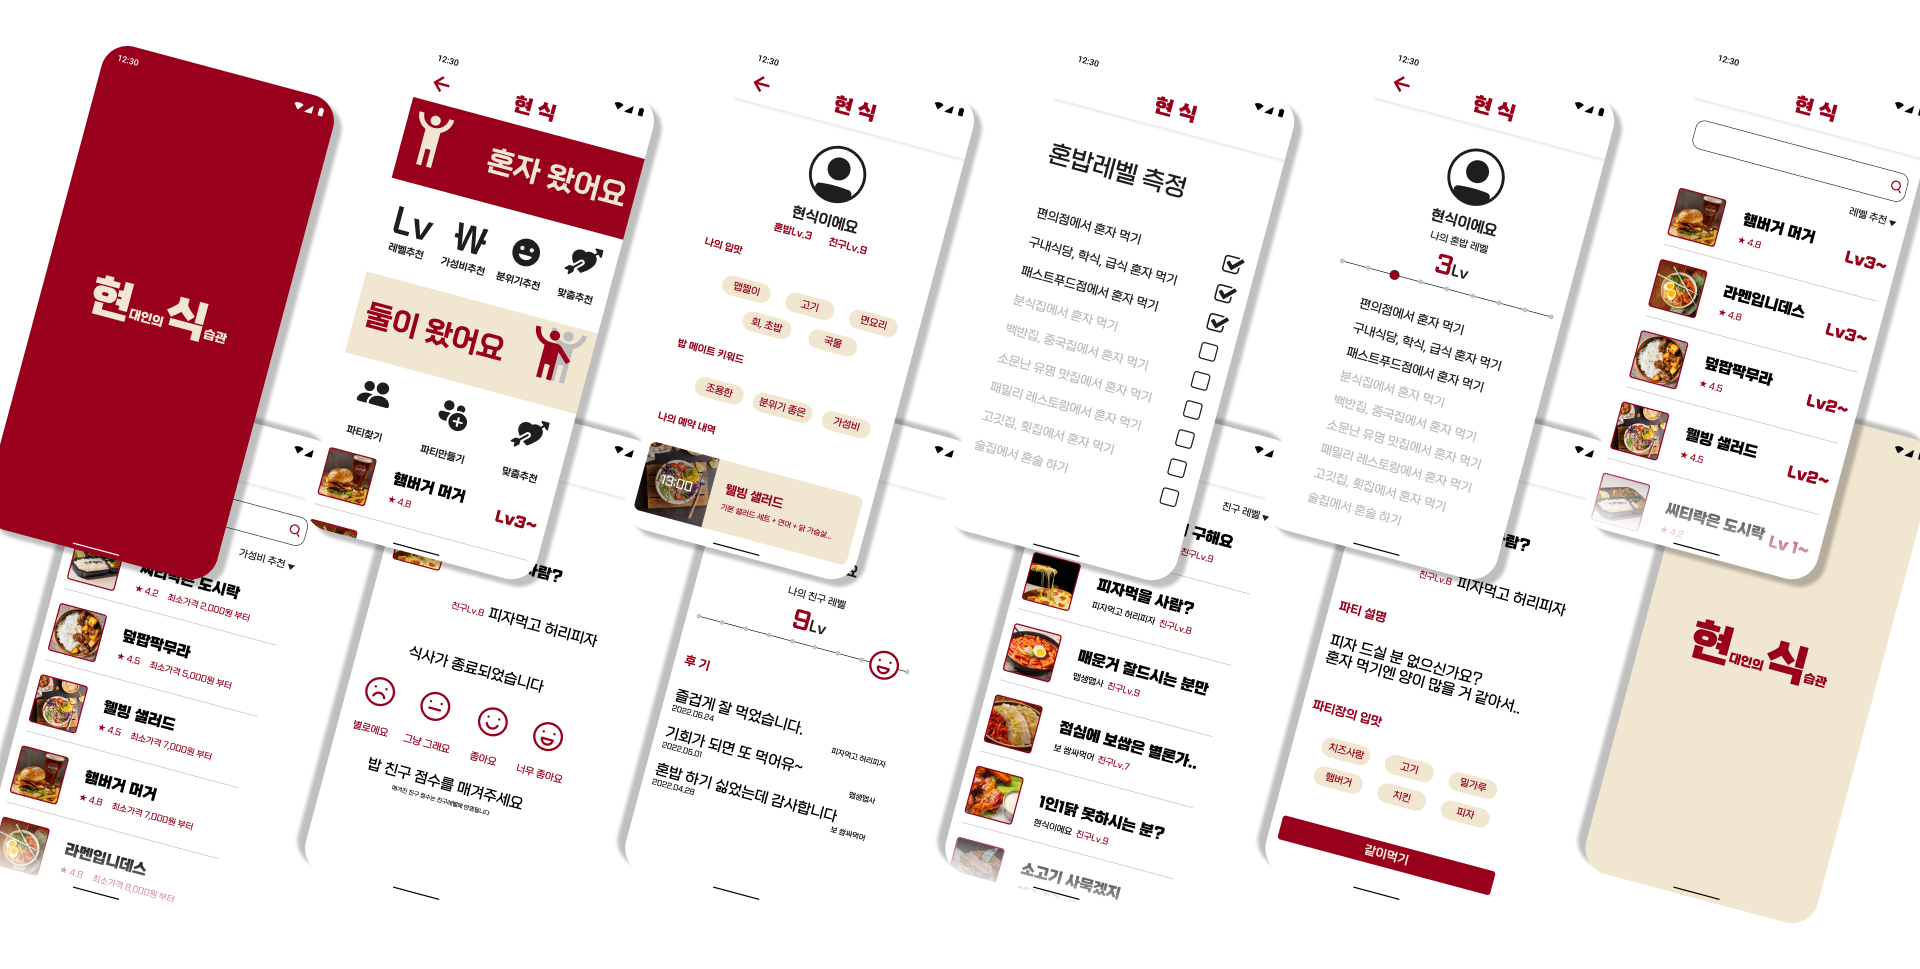
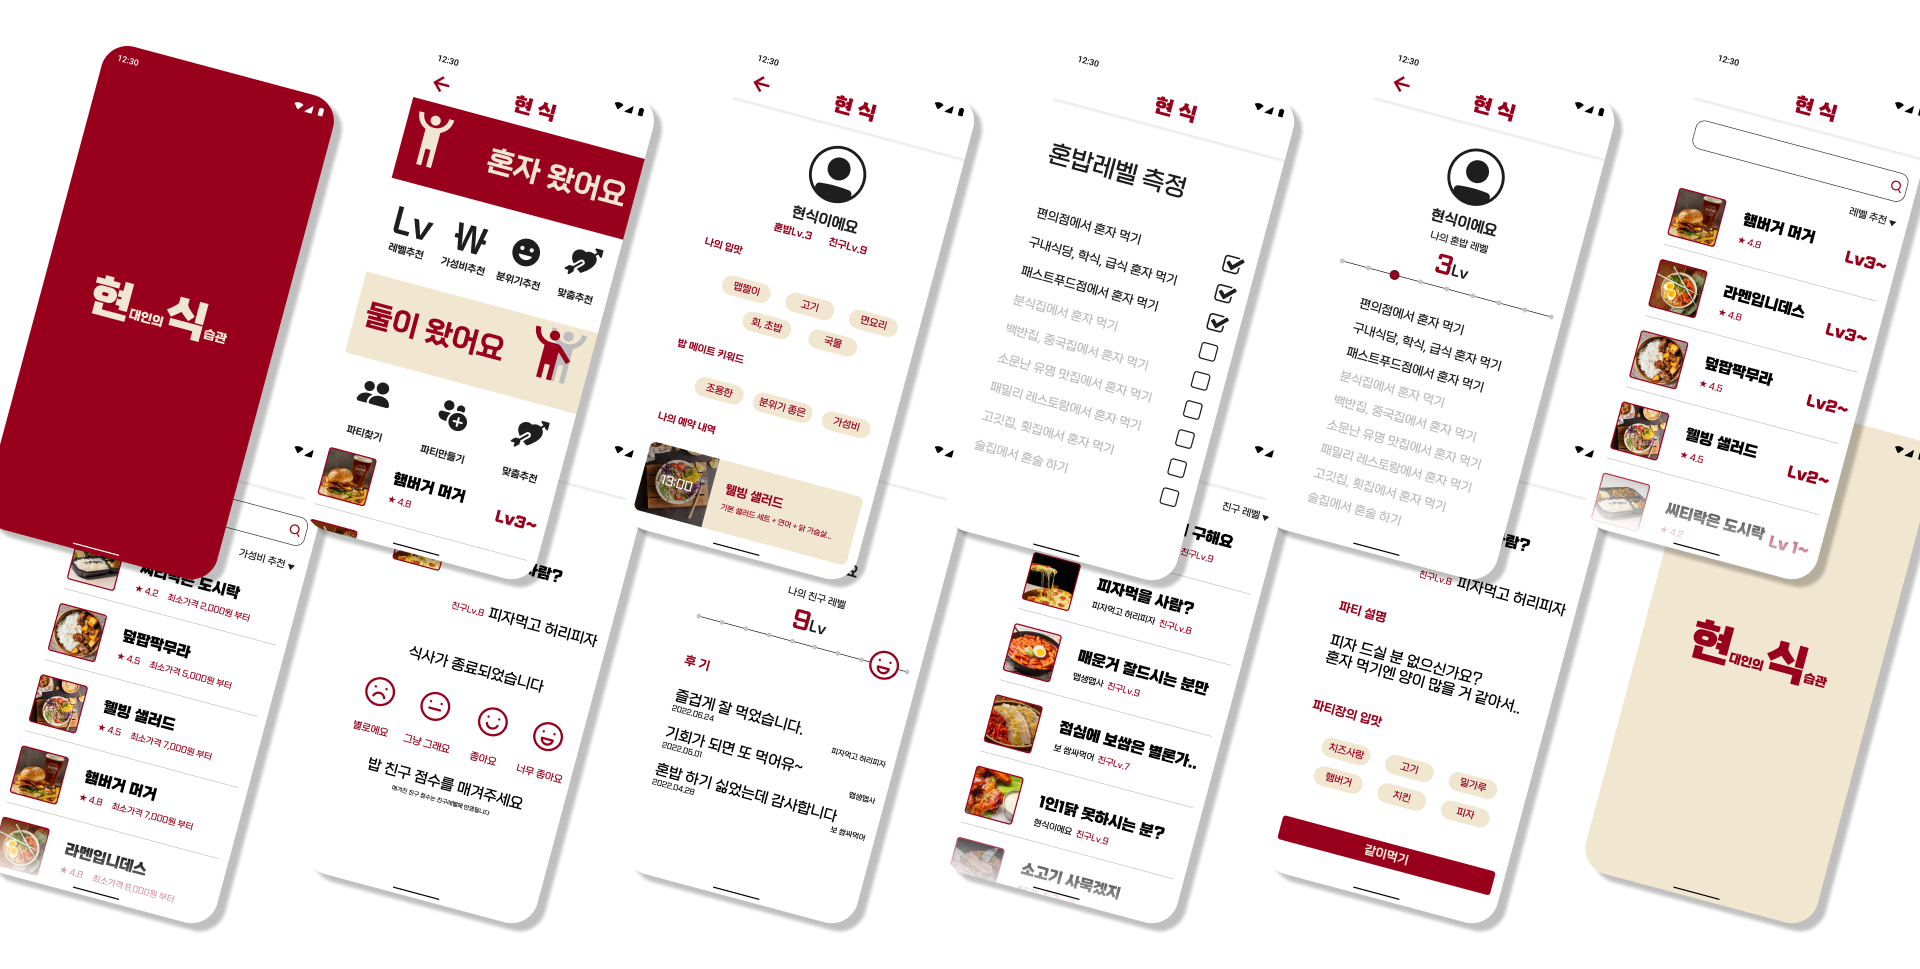
220712

diff --git a/style.css b/style.css
@@ -62,6 +62,9 @@ h3 {
 figure.active {
     opacity: 1;
 }
+.section-icon img {
+    filter: drop-shadow(12px 12px 4px rgba(30, 30, 30, 50%))
+}
 
 /* --------------- main --------------- */
 #main {
@@ -208,7 +211,7 @@ figure.active {
     display: flex;
     align-items: center;
     width: 100%;
-    height: 100vh;
+    height: 300vh;
     overflow: hidden;
 }
 .could-not-you-contents>p {
@@ -217,10 +220,14 @@ figure.active {
     -webkit-text-stroke: 1px var(--red-color);
     color: var(--white-color);
     margin-bottom: 40px;
+    width: 1920px;
 }
 .could-not-you-contents>p>span {
     font-family: 'GongGothicBold';
     color: var(--red-color);
+}
+.could-text-3  {
+    margin-bottom: 0 !important;
 }
 
 /* --------------- section-find-friends --------------- */
@@ -339,6 +346,10 @@ figure.active {
     height: 100vh;
     overflow: hidden;
 }
+.all-screens img {
+    width: 100%;
+    height: 100%;
+}
 
 /* --------------- section-all-screens --------------- */
 .footer {
@@ -358,15 +369,15 @@ figure.active {
     background-color: var(--ivory-color);
 }
 .footer-contents>figure {
-    padding-bottom: 56px;
+    padding-bottom: 64px;
 }
 
 /* --------------- fixed --------------- */
 .arrow-down {
+    position: fixed;
     left: 50%;
     transform: translateX(-50%);
-    bottom: 24px;
-    position: fixed;
+    bottom: 16px;
     animation: bounce infinite 2s;
 }
 .arrow-down:hover {
@@ -448,8 +459,7 @@ figure.active {
     }
     .section1-icon {
         top: 64px;
-        right: -100px;
-        width: 480px;
+        right: -140px;
     }
     .section1-lv {
         margin-left: 64px;
@@ -458,7 +468,7 @@ figure.active {
         width: 72px;
     }
     .section1-my-level {
-        margin-left: 360px;
+        margin-left: 400px;
     }
     .section1-my-level img {
         width: 124px;
@@ -470,7 +480,7 @@ figure.active {
         width: 184px;
     }
     .section1-check {
-        margin-left: 390px;
+        margin-left: 440px;
     }
     .section1-check img {
         width: 88px;
@@ -480,9 +490,8 @@ figure.active {
         width: 960px;
     }
     .section2-icon {
-        top: -56px;
-        right: -72px;
-        width: 400px;
+        top: -40px;
+        right: -92px;
     }
     .section2-search-term {
         margin-left: 200px;
@@ -494,7 +503,7 @@ figure.active {
         width: 56px;
     }
     .section2-9000 {
-        margin-left: 320px;
+        margin-left: 340px;
     }
     .section2-9000 img {
         width: 70px;
@@ -503,7 +512,7 @@ figure.active {
         width: 104px;
     }
     .section2-search {
-        margin-left: 340px;
+        margin-left: 360px;
     }
     .section2-search img {
         width: 48px;
@@ -515,7 +524,6 @@ figure.active {
     .section4-icon {
         top: -40px;
         left: -120px;
-        width: 490px;
     }
     .section4-pizza {
         margin-left: 320px;
@@ -534,5 +542,198 @@ figure.active {
     }
     .section4-fork-knife img {
         width: 56px;
+    }
+
+    .high-lv-friends-contents {
+        width: 960px;
+    }
+    .section5-icon {
+        top: -44px;
+        left: -150px;
+    }
+    .section5-good {
+        margin-left: 360px;
+    }
+    .section5-good img {
+        width: 40px;
+    }
+    .section5-awesome {
+        margin-left: 20px;
+    }
+    .section5-awesome img {
+        width: 90px;
+    }
+    .section5-bad {
+        margin-left: 420px;
+    }
+    .section5-bad img {
+        width: 64px;
+    }
+    .section5-soso {
+        margin-left: 72px;
+    }
+    .section5-soso img {
+        width: 60px;
+    }
+}
+
+@media screen and (max-width: 1200px) {
+    h3 {
+        font-size: 48px;
+    }
+    .section-text>p {
+        font-size: 16px;
+    }
+    .phone {
+        width: 220px;
+        height: 448px;
+        background-size: 220px 448px;
+        padding: 17px 0 0 10px;
+    }
+    .inner-container img {
+        width: 200px;
+        height: 418px;
+    }
+
+    .main-contents-container {
+        width: 800px;
+    }
+    .main-contents-container>h1 {
+        font-size: 120px;
+    }
+    .main-contents-container>p {
+        font-size: 28px;
+    }
+    
+    .my-level-contents {
+        width: 800px;
+    }
+    .section1-icon {
+        top: 70px;
+        right: -180px;
+    }
+    .section1-lv img {
+        width: 64px;
+    }
+    .section1-my-level {
+        margin-left: 372px;
+        transform-origin: 32px;
+    }
+    .section1-my-level img {
+        width: 116px;
+    }
+    .section1-lv-check {
+        margin-bottom: 72px;
+    }
+    .section1-lv-check img {
+        width: 164px;
+    }
+    .section1-check {
+        margin-left: 400px;
+        transform-origin: 32px;
+    }
+    .section1-check img {
+        width: 72px;
+    }
+
+    .cost-performance-contents {
+        width: 800px;
+    }
+    .section2-icon {
+        top: -44px;
+        right: -120px;
+    }
+    .section2-search-term {
+        margin-left: 220px;
+    }
+    .section2-search-term img {
+        width: 112px;
+    }
+    .section2-￦ {
+        margin-left: 20px;
+    }
+    .section2-￦ img {
+        width: 48px;
+    }
+    .section2-9000 {
+        margin-left: 316px;
+    }
+    .section2-9000 img {
+        width: 64px;
+    }
+    .section2-2000 img {
+        width: 96px;
+    }
+    .section2-search {
+        margin-left: 324px;
+    }
+    .section2-search img {
+        width: 36px;
+    }
+
+    .find-friends-contents {
+        width: 800px;
+    }
+    .section4-icon {
+        top: -40px;
+        left: -106px;
+    }
+    .section4-pizza {
+        margin-left: 300px;
+    }
+    .section4-chicken img {
+        width: 56px;
+    }
+    .section4-search-party {
+        margin-left: 320px;
+    }
+    .section4-search-party img {
+        width: 106px;
+    }
+    .section4-make-party img {
+        width: 96px;
+    }
+    .section4-fork-knife {
+        margin-left: 360px;
+    }
+    .section4-fork-knife img {
+        width: 48px;
+    }
+
+    .high-lv-friends-contents {
+        width: 800px;
+    }
+    .section5-icon {
+        top: -40px;
+    }
+    .section5-good {
+        margin-left: 340px;
+    }
+    .section5-good img {
+        width: 32px;
+    }
+    .section5-awesome {
+        margin-left: 28px;
+    }
+    .section5-awesome img {
+        width: 80px;
+    }
+    .section5-bad {
+        margin-left: 400px;
+    }
+    .section5-bad img {
+        width: 56px;
+    }
+    .section5-soso {
+        margin-left: 80px;
+    }
+    .section5-soso img {
+        width: 52px;
+    }
+}
+
+@media screen and (max-width: 1080px) {
+    .section-icon {
+        display: none;
     }
 }

diff --git a/index.html b/index.html
@@ -35,7 +35,7 @@
                     <figure><img src="images/level-restaurant.png" alt=""></figure>
                 </div>
     
-                <div class="section1-icon">
+                <div class="section-icon section1-icon">
                     <figure class="section1-lv">
                         <img src="images/section1-lv.png" alt="">
                     </figure>
@@ -68,7 +68,7 @@
                     <figure><img src="images/cost-reataurant.png" alt=""></figure>
                 </div>
     
-                <div class="section2-icon">
+                <div class="section-icon section2-icon">
                     <figure class="section2-search-term">
                         <img src="images/section2-search-term.png" alt="">
                     </figure>
@@ -107,7 +107,7 @@
                     <figure><img src="images/bob-party-2.png" alt=""></figure>
                 </div>
                 
-                <div class="section4-icon">
+                <div class="section-icon section4-icon">
                     <figure class="section4-pizza">
                         <img src="images/section4-pizza.png" alt="">
                     </figure>
@@ -143,7 +143,7 @@
                     <figure><img src="images/party-end-2.png" alt=""></figure>
                 </div>
 
-                <div class="section5-icon">
+                <div class="section-icon section5-icon">
                     <figure class="section5-good">
                         <img src="images/section5-good.png" alt="">
                     </figure>
